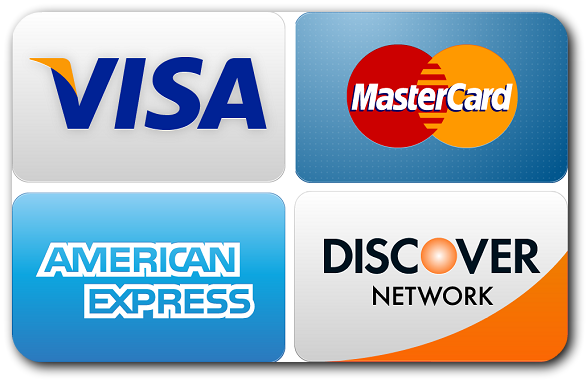
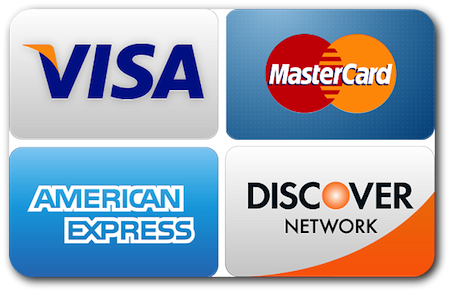
Stripe key fix and views touch-up

diff --git a/app/assets/stylesheets/custom.css b/app/assets/stylesheets/custom.css
@@ -1,7 +1,6 @@
 .hero-unit {
   background-image: url(credit-cards-icon.png);
   background-repeat:no-repeat;
-  background-size: 100% 100%;
   height: 320px;
 
 }

diff --git a/config/initializers/stripe.rb b/config/initializers/stripe.rb
@@ -1,6 +1,6 @@
 Rails.configuration.stripe = {
-  :publishable_key => 'sk_test_avtQwlBh8TDFQJ7ocTwZpfFX',
-  :secret_key      => 'pk_test_9ei9lPR5eL6F2B6sXnMuPZF6'
+  :publishable_key => 'pk_test_9ei9lPR5eL6F2B6sXnMuPZF6',
+  :secret_key      => 'sk_test_avtQwlBh8TDFQJ7ocTwZpfFX'
 }
 
 Stripe.api_key = Rails.configuration.stripe[:secret_key]
